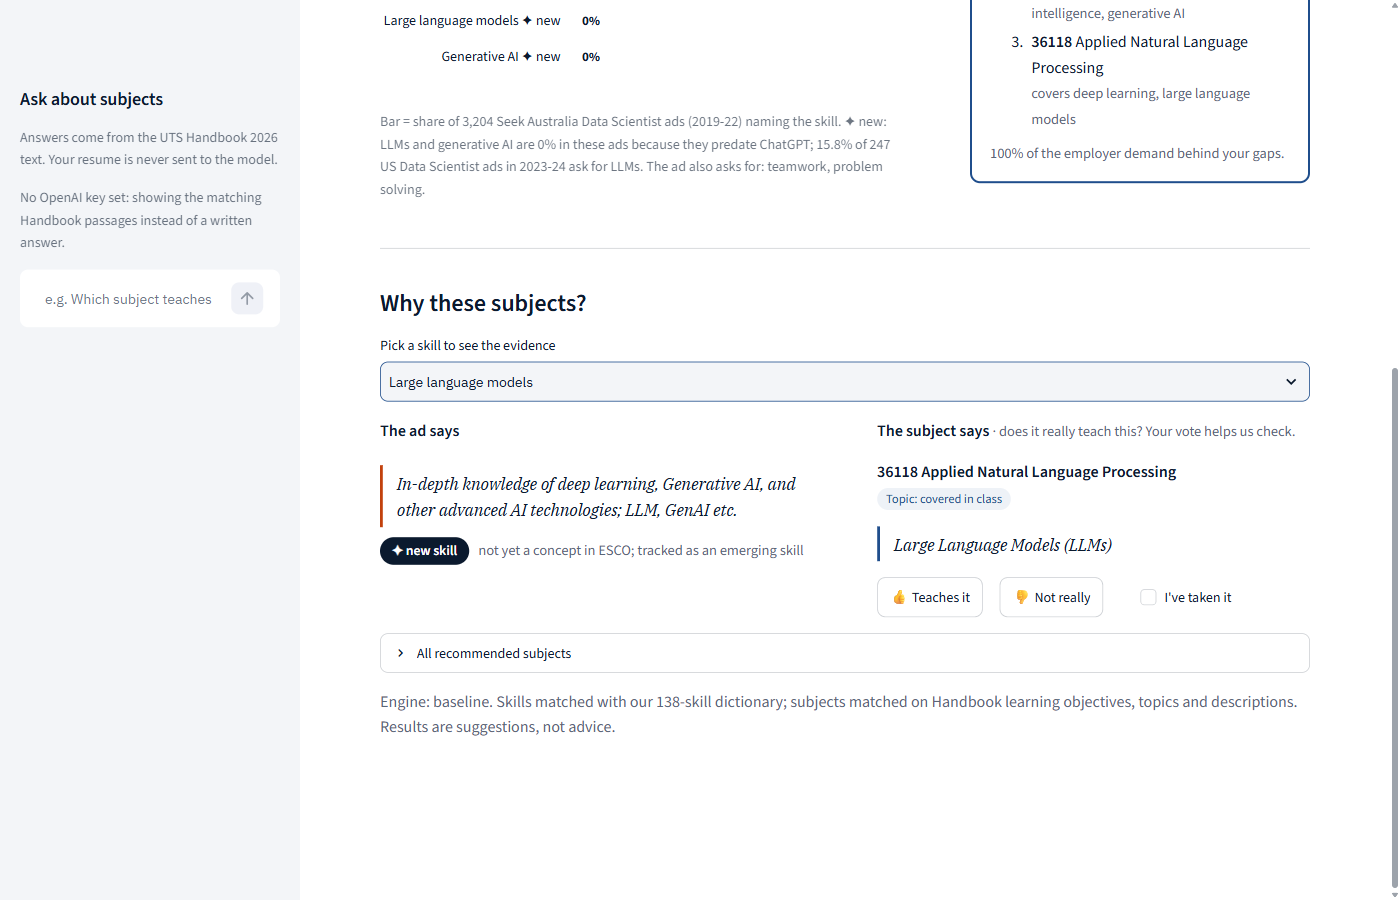
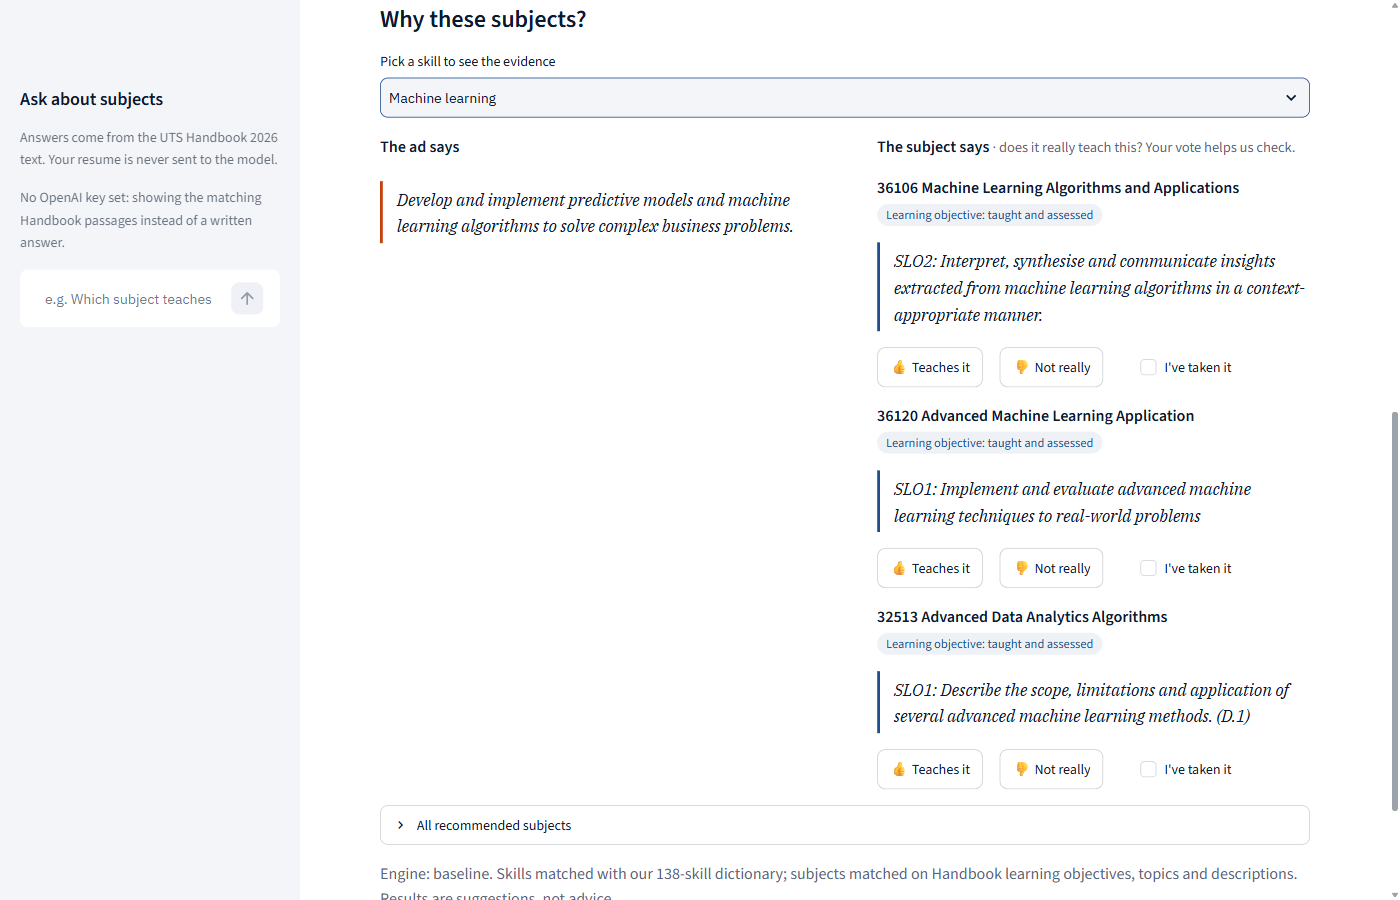
Deploy prep: light app requirements, deploy guide, QR script; keep inputs on Change inputs; every gap keeps its top subjects

diff --git a/app/Home.py b/app/Home.py
@@ -172,7 +172,7 @@ if ss.step == "start":
         with col, st.container(border=True):
             st.markdown(f"**{name}**")
             st.markdown(f"<div class='role-q'>{question}</div>", unsafe_allow_html=True)
-            st.button("Start", key=f"role_{key}", type="primary", use_container_width=True,
+            st.button("Start", key=f"role_{key}", type="primary", width="stretch",
                       on_click=go, args=("input",), kwargs={"role": key})
     st.markdown(
         "<p class='muted'>Built on 3,204 Seek Australia Data Scientist ads (2019-22), the ESCO skills "
@@ -186,6 +186,12 @@ elif ss.step == "input":
     st.markdown(f"### {name}: {question}")
     sample_cv = (MOCK / "sample_resume.txt").read_text(encoding="utf-8")
     ad_text, taken = None, []
+    # Streamlit forgets a widget's value once it is off screen, so inputs are kept in *_keep
+    # and restored when the user comes back from the results.
+    if "ad_box" not in ss:
+        ss.ad_box = ss.get("ad_keep", "")
+    if "taken_box" not in ss:
+        ss.taken_box = ss.get("taken_keep", [])
 
     left, right = st.columns(2, gap="large")
     with left:
@@ -195,6 +201,7 @@ elif ss.step == "input":
                 ss.ad_box = (MOCK / "sample_ad.txt").read_text(encoding="utf-8")
             ad_text = st.text_area("Paste the full ad", key="ad_box", height=320,
                                    placeholder="Paste the job title, responsibilities and requirements here.")
+            ss.ad_keep = ad_text
         else:
             st.markdown("**Your target role**")
             st.selectbox("Role", ["Data Scientist"], help="More roles once the 2026 ads are in.")
@@ -203,13 +210,21 @@ elif ss.step == "input":
                 options = backend.subjects()
                 label = {c: f"{c} {n}" for c, n in options}
                 taken = st.multiselect("Subjects you have taken (they count as skills you have)",
-                                       [c for c, _ in options], format_func=lambda c: label[c])
+                                       [c for c, _ in options], format_func=lambda c: label[c], key="taken_box")
+                ss.taken_keep = taken
     with right:
         st.markdown("**Your resume**")
         upload = st.file_uploader("PDF or text file", type=["pdf", "txt", "md"])
-        use_sample = st.checkbox("Use the sample resume (synthetic early-career MDSI student)", value=upload is None)
+        if upload:
+            ss.resume_keep = (upload.name, read_resume(upload))
+        kept = ss.get("resume_keep")
+        use_kept = False
+        if kept and not upload:
+            use_kept = st.checkbox(f"Use {kept[0]} (uploaded earlier)", value=True)
+        use_sample = st.checkbox("Use the sample resume (synthetic early-career MDSI student)",
+                                 value=not (upload or use_kept), disabled=bool(upload or use_kept))
         st.caption("Your resume stays in memory for this session and is never stored.")
-    resume = read_resume(upload) if upload else (sample_cv if use_sample else "")
+    resume = kept[1] if (upload or use_kept) else (sample_cv if use_sample else "")
 
     ready = bool(resume or taken) and (ss.role != "job" or bool((ad_text or "").strip()))
     if st.button("Show my gaps", type="primary", disabled=not ready):
@@ -234,7 +249,7 @@ elif ss.step == "results":
     with top_l:
         st.button("← Change inputs", on_click=go, args=("input",))
     with top_r:
-        st.button("Start over", on_click=go, args=("start",), kwargs={"messages": []}, use_container_width=True)
+        st.button("Start over", on_click=go, args=("start",), kwargs={"messages": []}, width="stretch")
 
     if not skills:
         st.warning("I couldn't find any technical skills in that ad. Is it the full text?")
@@ -253,7 +268,7 @@ elif ss.step == "results":
     chart_col, path_col = st.columns([3, 2], gap="large")
     with chart_col:
         st.markdown("#### How often employers ask for each skill")
-        st.altair_chart(gap_chart(skills), use_container_width=True)
+        st.altair_chart(gap_chart(skills), width="stretch")
         cap = "Bar = share of 3,204 Seek Australia Data Scientist ads (2019-22) naming the skill."
         if any(s["emerging"] for s in skills):
             cap += " ✦ = no ESCO concept yet, kept as an emerging skill."

diff --git a/app/baseline.py b/app/baseline.py
@@ -160,9 +160,15 @@ def recommend(gaps: list[dict], exclude: set[str]) -> tuple[list[dict], dict]:
         "demand_covered_pct": round(
             100 * sum(s["demand_pct"] for s in gaps if s["skill_label"] in closed) / raw_total, 1),
     }
-    shown = sorted((r for r in recs if r["subject_code"] in path), key=lambda r: path.index(r["subject_code"]))
-    shown += [r for r in recs if r["subject_code"] not in path][: max(0, MAX_SUBJECTS - len(shown))]
-    return shown, learning_path
+    # Shown: the path first, then each gap's two strongest subjects (so a 0%-demand skill like
+    # LLMs still gets its evidence), then the best of the rest up to MAX_SUBJECTS.
+    order = list(path)
+    for s in gaps:
+        best_two = [r["subject_code"] for r in recs if s["skill_label"] in r["covers"]][:2]
+        order += [c for c in best_two if c not in order]
+    order += [r["subject_code"] for r in recs if r["subject_code"] not in order]
+    by_code = {r["subject_code"]: r for r in recs}
+    return [by_code[c] for c in order[: max(MAX_SUBJECTS, len(path) + 2 * len(gaps))]], learning_path
 
 
 def analyse(resume_text: str, ad_text: str | None = None, taken: list[str] | None = None,

diff --git a/src/make_qr.py b/src/make_qr.py
@@ -1,0 +1,27 @@
+"""QR code for the deployed app, for the report and the demo slide.
+
+python src/make_qr.py https://skillabus.streamlit.app   ->  docs/report/figures/qr_app.png
+"""
+
+import sys
+from pathlib import Path
+
+import qrcode
+from qrcode.constants import ERROR_CORRECT_M
+
+OUT = Path(__file__).resolve().parents[1] / "docs" / "report" / "figures" / "qr_app.png"
+
+
+def main(url: str) -> None:
+    qr = qrcode.QRCode(error_correction=ERROR_CORRECT_M, box_size=20, border=2)
+    qr.add_data(url)
+    qr.make(fit=True)
+    OUT.parent.mkdir(parents=True, exist_ok=True)
+    qr.make_image(fill_color="#0b1a2e", back_color="white").save(OUT)
+    print(f"{OUT} -> {url}")
+
+
+if __name__ == "__main__":
+    if len(sys.argv) != 2:
+        sys.exit("usage: python src/make_qr.py <app url>")
+    main(sys.argv[1])

diff --git a/docs/deploy.md b/docs/deploy.md
@@ -1,0 +1,35 @@
+# Deploying the app (issue #8)
+
+Streamlit Community Cloud, free, deploys from the private GitHub repo. About 10 minutes, once.
+
+1. Merge the app pull requests into `main` (#35, #36, #37, this one).
+2. Go to https://share.streamlit.io and sign in with the GitHub account that owns the repo
+   (AndyPham2004). Allow access to private repos when asked.
+3. **Create app** → *Deploy a public app from GitHub*:
+   - Repository: `AndyPham2004/ANLP-AT2-Skillabus`
+   - Branch: `main`
+   - Main file path: `app/Home.py`
+   - App URL: pick a name, e.g. `skillabus`
+4. **Advanced settings** → Python version **3.12** → Secrets (TOML):
+   ```toml
+   OPENAI_API_KEY = "sk-..."
+   ```
+   Lightcast keys are not needed on the cloud: without the raw ESCO files the app uses the
+   dictionary baseline plus GPT-4o-mini, and normalisation falls back to Lightcast/emerging.
+5. Deploy. The app installs from `app/requirements.txt` (no PyTorch), so the first build takes
+   a minute or two.
+6. Make the QR code for the report:
+   ```powershell
+   python src/make_qr.py https://skillabus.streamlit.app
+   ```
+   It writes `docs/report/figures/qr_app.png`.
+
+## Before user testing (12 Oct)
+
+- Set a spending limit on the OpenAI key (Settings → Limits). GPT-4o-mini costs a fraction of a
+  cent per analysis; a limit of USD 10 is plenty.
+- Votes go to `data/processed/feedback.csv` on the cloud machine, which is wiped on every
+  redeploy. Download it from the app's machine before redeploying, or ask testers to vote in one
+  session. (A shared store is a later improvement.)
+- The app is public by link. Tell testers to use the sample resume or their own without contact
+  details; resumes are never stored, but there is no reason to upload a phone number.
